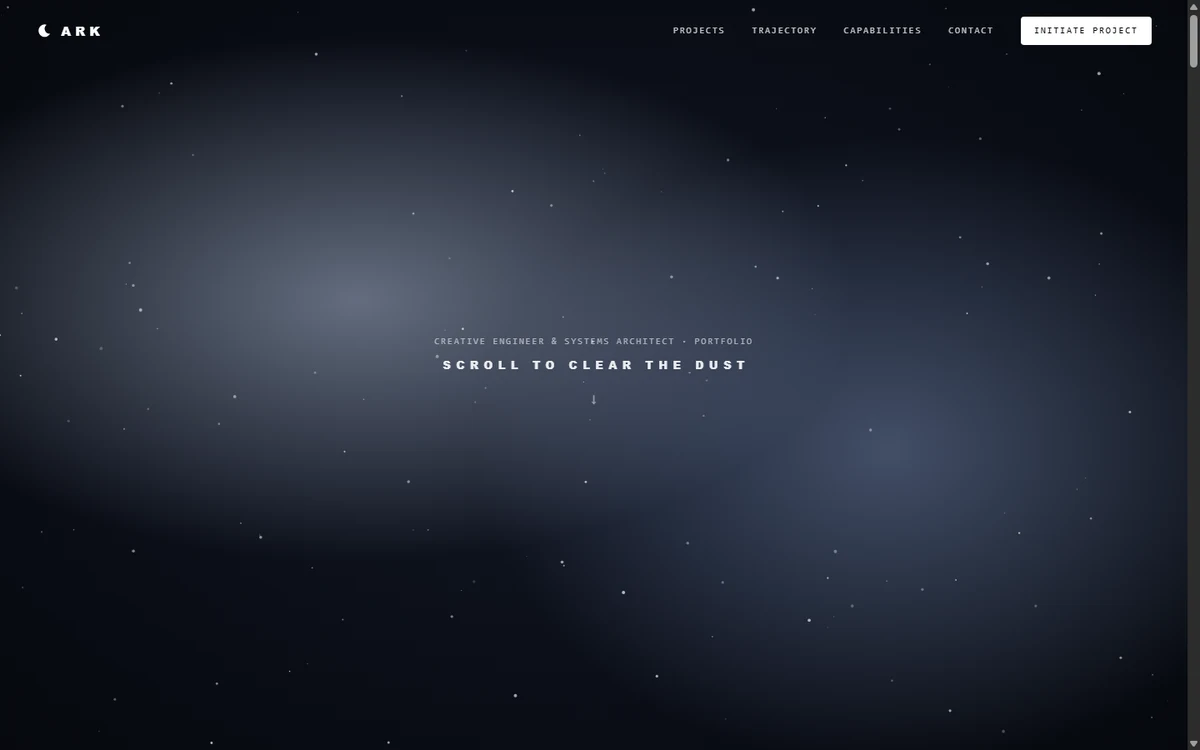
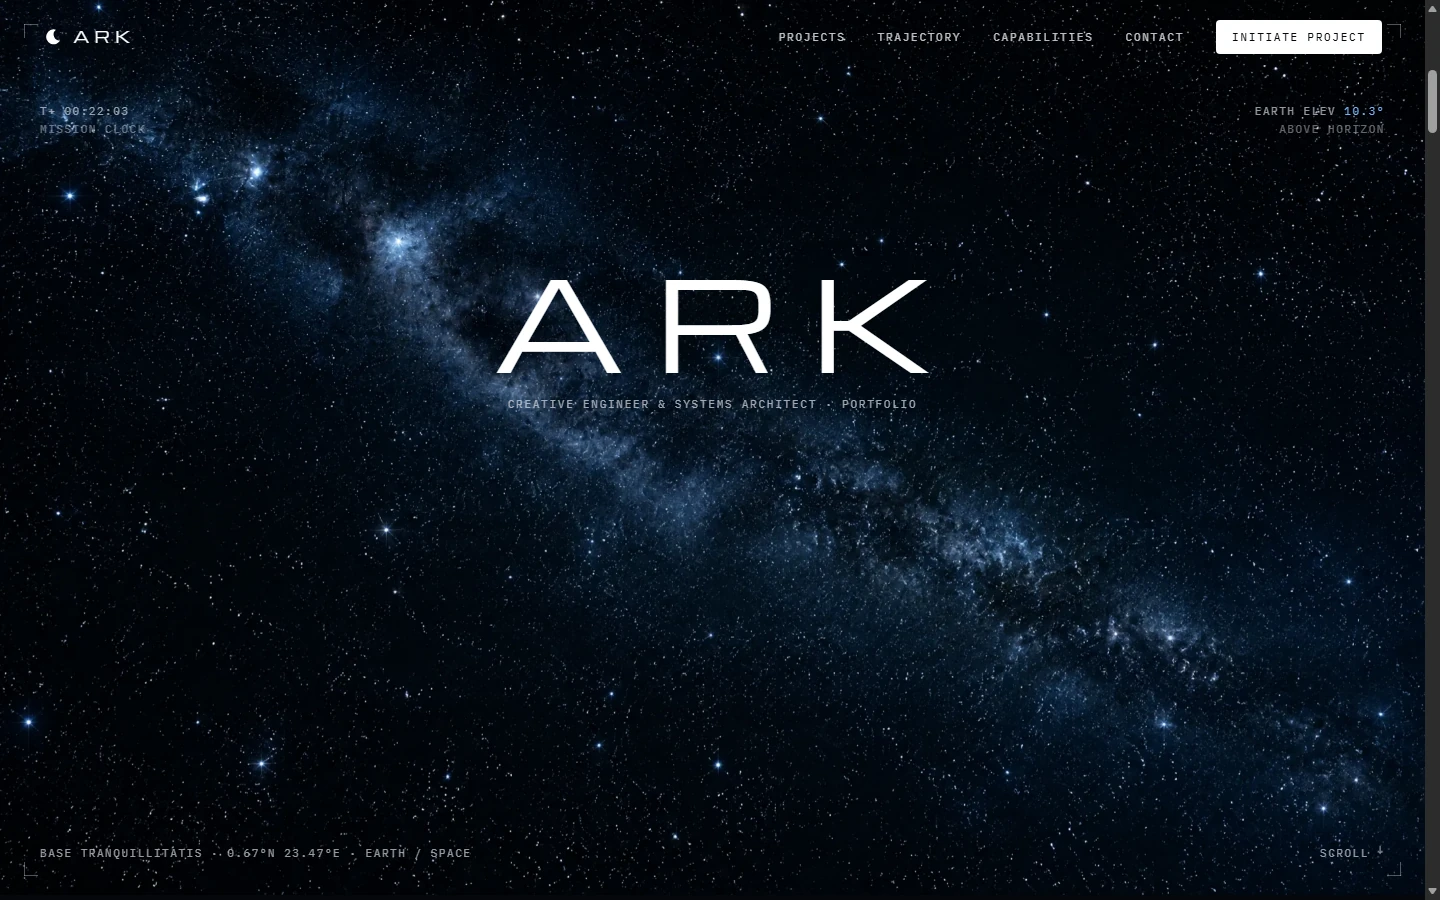
fix(design): hero spacing, PORTFOLIO readability, stats layout, process column balance, and updated project screenshots

diff --git a/components/Hero.module.css b/components/Hero.module.css
@@ -4,14 +4,14 @@
 
 .heroSection {
   position: relative;
-  min-height: clamp(640px, calc(100vh - 68px), 880px);
+  min-height: clamp(560px, 80vh, 740px);
   width: 100%;
   display: flex;
   flex-direction: column;
-  justify-content: space-between;
+  justify-content: flex-end;
   overflow: hidden;
   background-color: var(--bg);
-  padding: var(--space-6) 0 var(--space-8) 0;
+  padding: var(--space-4) 0 0 0;
 }
 
 /* Ambient Radial Red Light & Interactive Spotlight */
@@ -126,20 +126,20 @@
   grid-template-columns: repeat(12, minmax(0, 1fr));
   column-gap: var(--space-6);
   align-items: flex-end;
-  min-height: 580px;
+  min-height: clamp(480px, 66vh, 580px);
   position: relative;
   z-index: 6;
 }
 
-/* Center Portrait Layer */
+/* Center Portrait Layer — shifted slightly right & lower to uncover PORTFOLIO lettering */
 .portraitWrapper {
   position: absolute;
-  top: 0;
-  left: 50%;
-  transform: translateX(-50%);
-  width: clamp(340px, 38vw, 560px);
-  height: 100%;
-  max-height: 720px;
+  top: 4%;
+  left: 54%;
+  transform: translateX(-46%);
+  width: clamp(290px, 32vw, 470px);
+  height: 96%;
+  max-height: 640px;
   display: flex;
   justify-content: center;
   align-items: flex-end;
@@ -321,15 +321,16 @@
   color: var(--text);
 }
 
-/* Right Column (Statement & Stats) */
+/* Right Column (Statement & Stats) — widened so labels fit on at most 2 lines */
 .rightBlock {
-  grid-column: 10 / span 3;
+  grid-column: 9 / span 4;
   position: relative;
   z-index: 10;
   display: flex;
   flex-direction: column;
   justify-content: flex-end;
-  gap: var(--space-8);
+  align-items: flex-end;
+  gap: var(--space-6);
   padding-bottom: var(--space-4);
   animation: fadeInUp 800ms 350ms cubic-bezier(0.16, 1, 0.3, 1) backwards;
 }
@@ -338,7 +339,7 @@
   display: flex;
   align-items: flex-start;
   gap: var(--space-3);
-  max-width: 260px;
+  max-width: 280px;
 }
 
 .sparkleIcon {
@@ -358,9 +359,11 @@
 .statsStack {
   display: flex;
   flex-direction: column;
-  gap: var(--space-5);
+  gap: var(--space-4);
   border-left: 1px solid var(--line);
-  padding-left: var(--space-5);
+  padding-left: var(--space-4);
+  width: 100%;
+  max-width: 280px;
 }
 
 .statItem {
@@ -371,11 +374,18 @@
 
 .statValue {
   font-family: var(--font-display);
-  font-size: clamp(2.2rem, 3.2vw, 3rem);
+  font-size: clamp(2rem, 2.8vw, 2.8rem);
   color: var(--red);
   line-height: 0.9;
   letter-spacing: 0.02em;
   font-weight: 400;
+  min-width: 2.2ch;
+}
+
+.statLabelGroup {
+  display: flex;
+  flex-direction: column;
+  gap: 2px;
 }
 
 .statLabel {
@@ -383,9 +393,17 @@
   letter-spacing: 0.16em;
   text-transform: uppercase;
   color: var(--muted);
-  line-height: 1.2;
+  line-height: 1.25;
   font-weight: 600;
-  max-width: 130px;
+  max-width: 180px;
+}
+
+.statSublabel {
+  font-size: 0.625rem;
+  font-family: monospace, sans-serif;
+  letter-spacing: 0.12em;
+  color: var(--red);
+  font-weight: 700;
 }
 
 /* Keyframe Animations */
@@ -403,11 +421,11 @@
 @keyframes portraitEntrance {
   0% {
     opacity: 0;
-    transform: translateX(-50%) translateY(32px) scale(0.98);
+    transform: translateX(-46%) translateY(28px) scale(0.98);
   }
   100% {
     opacity: 1;
-    transform: translateX(-50%) translateY(0) scale(1);
+    transform: translateX(-46%) translateY(0) scale(1);
   }
 }
 

diff --git a/components/AboutProcess.module.css b/components/AboutProcess.module.css
@@ -132,11 +132,14 @@
 .processColumn {
   display: flex;
   flex-direction: column;
+  height: 100%;
 }
 
 .timeline {
   display: flex;
   flex-direction: column;
+  justify-content: space-between;
+  flex: 1;
   position: relative;
   padding-left: 28px;
 }
@@ -155,7 +158,7 @@
 .stepItem {
   display: flex;
   position: relative;
-  padding-bottom: var(--space-6);
+  padding-bottom: clamp(22px, 2.6vw, 34px);
 }
 
 .stepItem:last-child {
@@ -242,7 +245,7 @@
   background: linear-gradient(150deg, #780B16 0%, #4A070E 40%, #1E0306 100%);
   border: 1px solid rgba(229, 9, 32, 0.35);
   border-radius: var(--radius-sm);
-  padding: var(--space-8) var(--space-6);
+  padding: clamp(24px, 2.8vw, 36px) clamp(20px, 2.4vw, 28px);
   display: flex;
   flex-direction: column;
   justify-content: space-between;

diff --git a/components/Hero.tsx b/components/Hero.tsx
@@ -135,7 +135,12 @@ export default function Hero() {
                 {HERO_DATA.stats.map((stat, idx) => (
                   <div key={idx} className={styles.statItem}>
                     <span className={styles.statValue}>{stat.value}</span>
-                    <span className={styles.statLabel}>{stat.label}</span>
+                    <div className={styles.statLabelGroup}>
+                      <span className={styles.statLabel}>{stat.label}</span>
+                      {stat.sublabel && (
+                        <span className={styles.statSublabel}>{stat.sublabel}</span>
+                      )}
+                    </div>
                   </div>
                 ))}
               </div>

diff --git a/data/hero.ts b/data/hero.ts
@@ -1,6 +1,7 @@
 export interface HeroStat {
   value: string;
   label: string;
+  sublabel?: string;
 }
 
 export interface NavLink {
@@ -40,7 +41,7 @@ export const HERO_DATA: HeroData = {
   statement: "Turning ideas into powerful digital experiences.",
   stats: [
     { value: "4", label: "LIVE PROJECTS" },
-    { value: "3", label: "COUNTRIES SERVED (PK, SA, UAE)" },
+    { value: "3", label: "COUNTRIES SERVED", sublabel: "PK / SA / UAE" },
     { value: "EN / AR", label: "BILINGUAL BUILDS" },
   ],
   navLinks: [

diff --git a/components/SelectedProjects.module.css b/components/SelectedProjects.module.css
@@ -6,7 +6,7 @@
   position: relative;
   width: 100%;
   background-color: var(--bg);
-  padding: var(--space-16) 0 var(--space-20) 0;
+  padding: var(--space-8) 0 var(--space-16) 0;
   border-top: 1px solid var(--line);
   overflow: hidden;
 }
